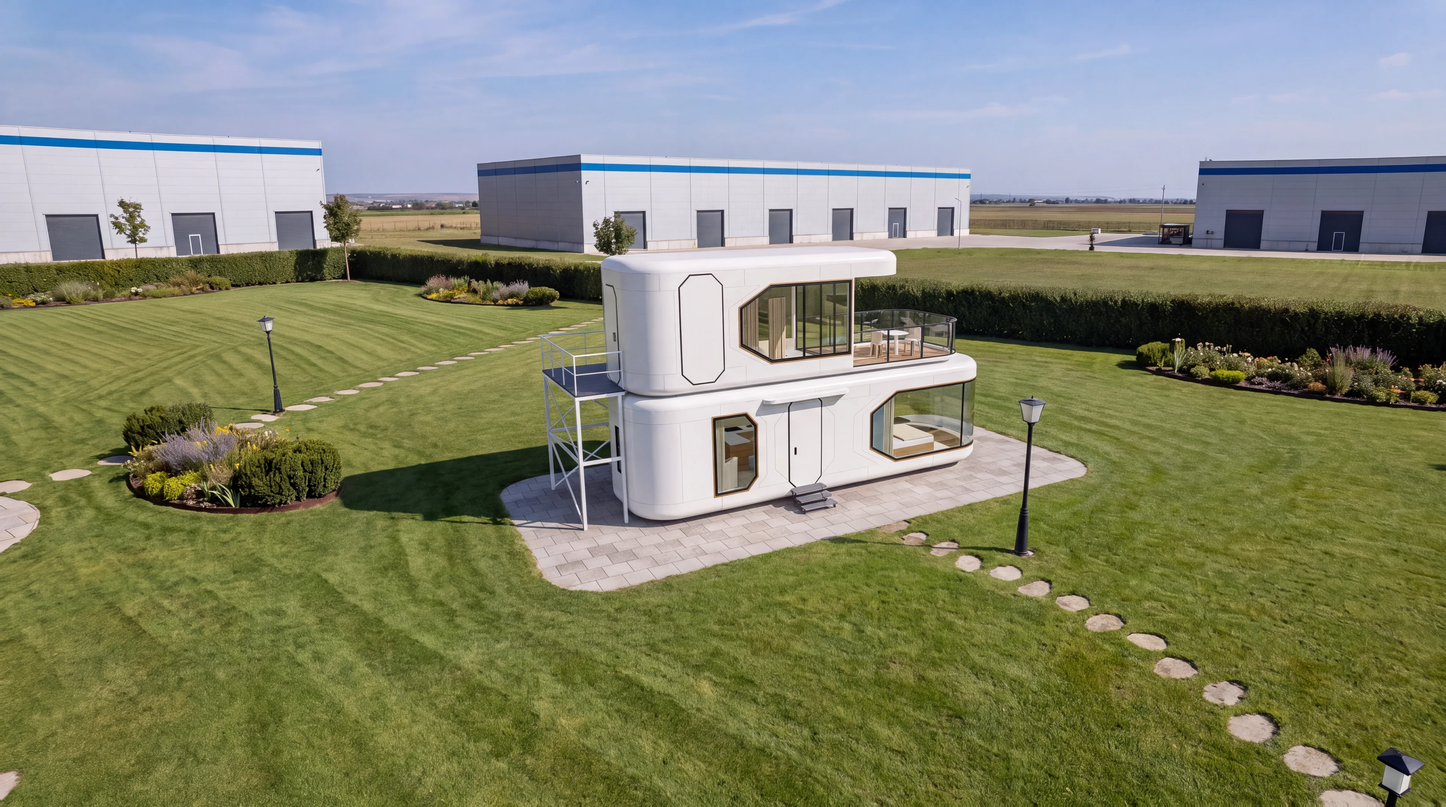
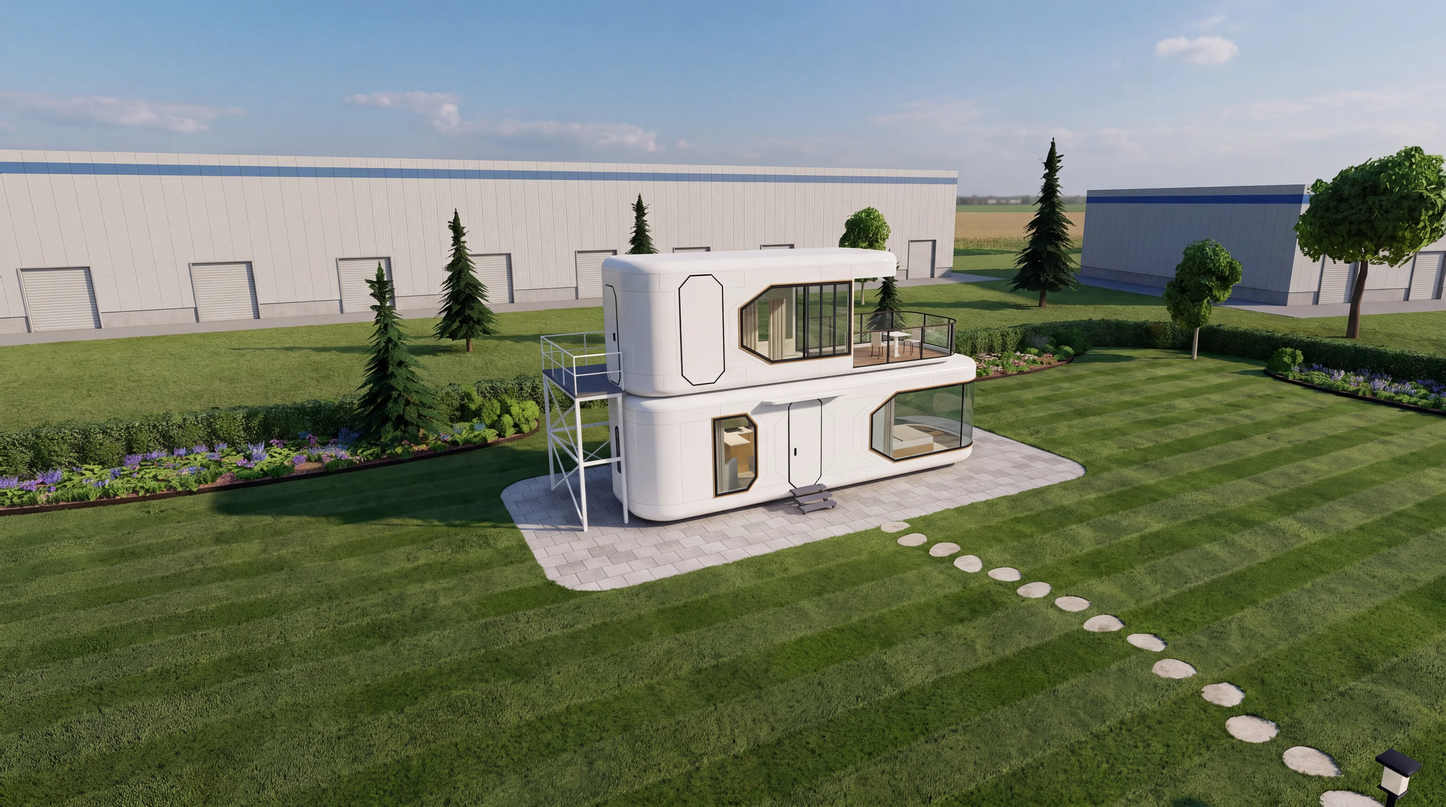
Grădina: vederea M9 refăcută cu aceeași așezare ca macheta; note
Claude-Session: https://claude.ai/code/session_01KQBPBSm1ebqTvHwEmS7Cs6

diff --git a/surse/ai360/CITESTE.md b/surse/ai360/CITESTE.md
@@ -85,7 +85,7 @@ pentru cele slabe („v4”, ~2.730 de credite, la 1K costă aproape la fel, dec
 - `fixflat.py` arată câte puncte s-au potrivit cu sursa: sute = cadrul e păstrat; sub ~30 = generatorul a recompus (de verificat cu ochii).
 Refăcute așa și puse pe site: `gr_v3` (`2FFRoHGN59veEtifcMOy`), `gr_e7` (`TyBdwCZ5UTmb9HrNlYm3`), `gr_v3_p` (`y4IwjXaXIpufWuyG6NTM`; a
 schimbat terasa de lemn în piatră cu mobilier, de refăcut dacă deranjează), `gr_m9_p` (`dyOuHfp3VWI1HaifoxEv`), `gr_m9`
-(`kr7IWeN4aOjFR1osdC8y`). Au rămas doar „aproape reale”: `gr_x7_p` și `gr_t7_p` (telefon).
+(`zGGUmewWf5busm3HHgPj`, rețeta „v4”, pusă în locul variantei „v2” ca să aibă aceeași așezare ca macheta și ca rotirea ei). Au rămas doar „aproape reale”: `gr_x7_p` și `gr_t7_p` (telefon).
 
 În același flux au rămas 12 noduri mai vechi („… afara - real”, cu surse 360°): **nu se pornesc** (metoda abandonată; două au fost
 rulate ca probă și nu s-au folosit).
@@ -136,6 +136,9 @@ Clientul a văzut vederea reală a lui X7 și i-a plăcut, dar: „când miști 
   ieșit greșite (casa văzută din față, trecând treptat la traseu) și pe peretele din spate a apărut o ușă. Pe site aceste cadre sunt
   ocolite (`EVITA=0-25` la `fixspin.py`: rotirea „stă” puțin în spatele casei). **De acum rotirea pornește din locul vederii**
   (`capspin.js` face asta implicit), ca primul cadru să fie chiar imaginea de referință.
+- Clientul a văzut rotirea și a trimis alt filmuleț, de la T7 (care nu avea încă rotire reală): „când se mișcă imaginea, devine
+  înapoi pătrățos, nu rămâne la fel de 3D și real”. Am vrut să scot din filmare copacii prin care trece camera; a spus clar:
+  **„Lasă copacii.”** Deci copacii rămân în filmările rotirii, chiar dacă acoperă casa câteva grade.
 - Pe site: **X7 are rotire reală** (ecran lat): `ROTIRI.X7 = [{ zi: 'x7', n: 72, az0: 122, r: [...] }, null]`, cadrele în
   `site/img/gd/rot/x7/` (3,9 MB cele mici, 9,2 MB cele mari).
 
